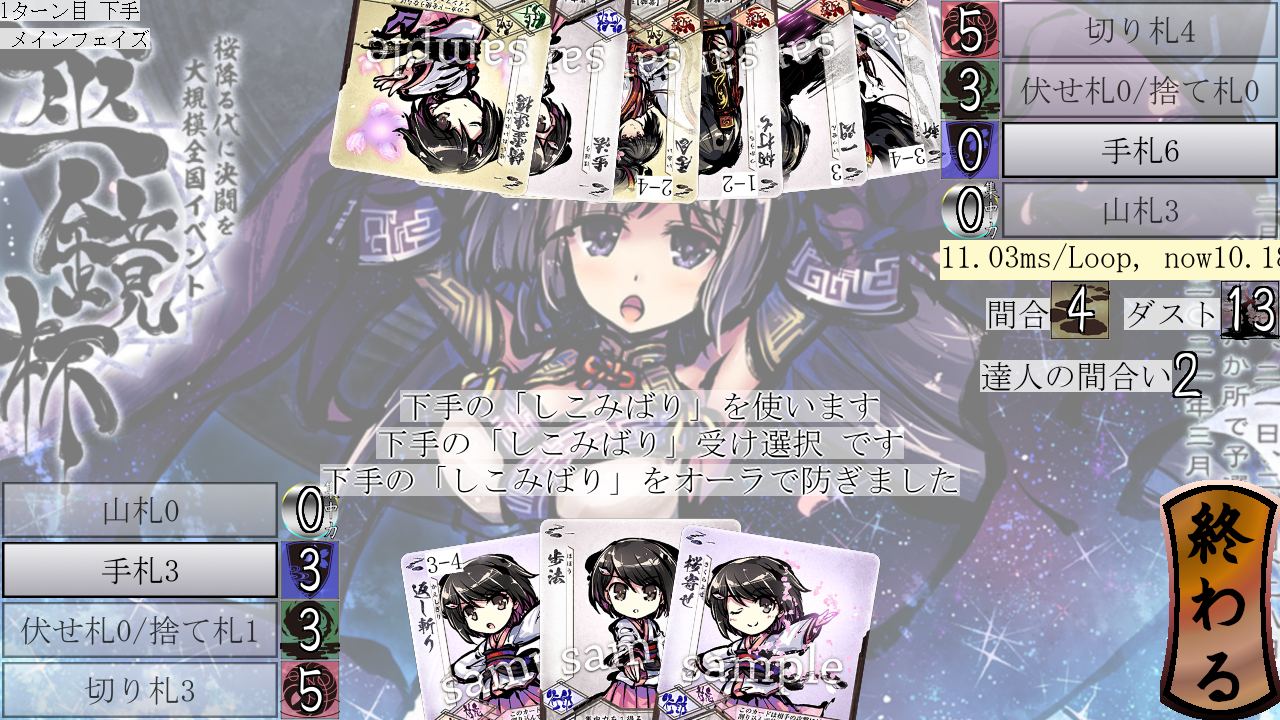
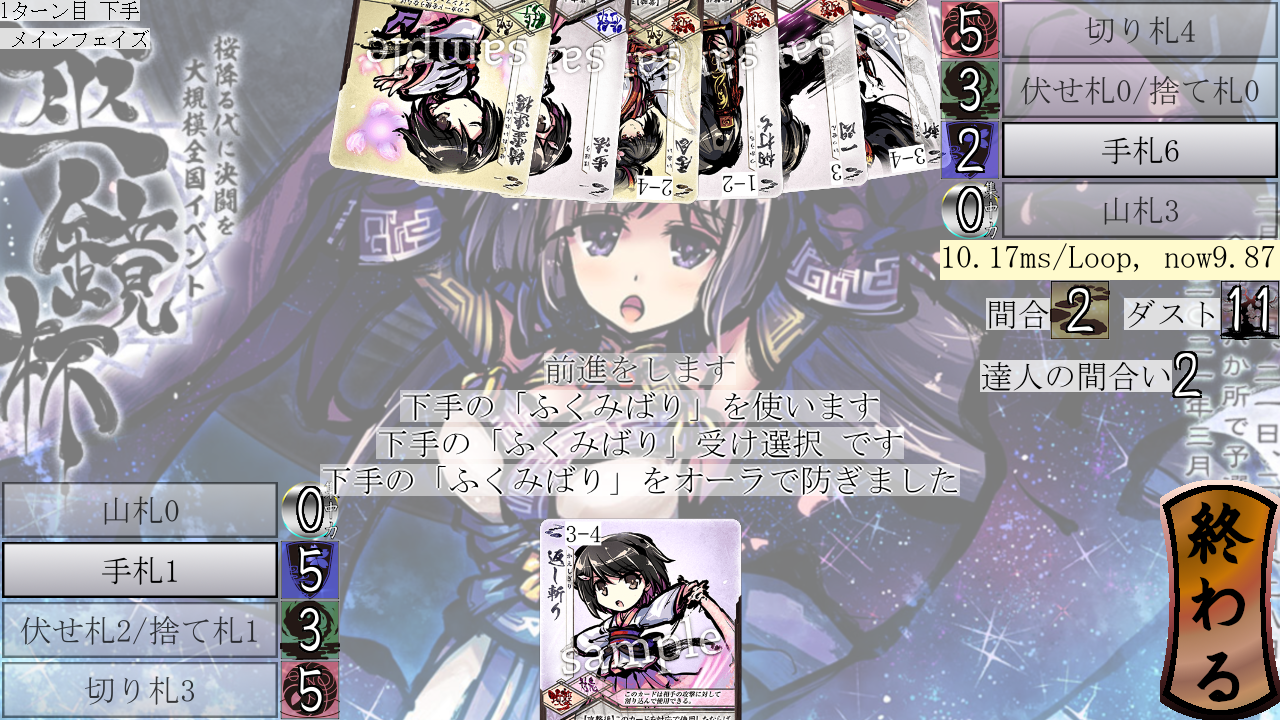
J707:変貌実装完了

diff --git a/mod/huda/huda.py b/mod/huda/huda.py
@@ -3,7 +3,7 @@ from pygame.surface import Surface
 from pygame.math import Vector2
 from typing import Callable
 
-from mod.const import nie, USAGE_UNUSED, USAGE_DEPLOYED, USAGE_USED, HUDA_SCALE
+from mod.const import enforce, nie, USAGE_UNUSED, USAGE_DEPLOYED, USAGE_USED, HUDA_SCALE
 from mod.youso import Youso
 from mod.card.card import Card, auto_di
 from mod.controller import controller
@@ -75,7 +75,13 @@ class Huda(Youso):
 
     @property
     def card(self) -> Card:
-        return self._card
+        if "henbou" in self._card.kwargs:
+            if self.delivery.m_params(self.hoyuusya).henbou:
+                return enforce(self._card.kwargs["horobi"], Card)
+            else:
+                return self._card
+        else:
+            return self._card
 
     @card.setter
     def card(self, card: Card) -> None:

diff --git a/kaiketus/m06o.py b/kaiketus/m06o.py
@@ -39,4 +39,4 @@ n_1_ura = Card(megami=MG_YUKIHI, img=img_card("o_n_1"), name="ふくみばり", 
     aura_damage_func=int_di(1), life_damage_func=int_di(2), maai_list=dima_di(0, 2))
 
 n_1 = Card(megami=MG_YUKIHI, img=img_card("o_n_1"), name="しこみばり", cond=auto_di, type=CT_KOUGEKI,
-    aura_damage_func=int_di(3), life_damage_func=int_di(1), maai_list=dima_di(4, 6), dual=True, henbou=n_1_ura)
+    aura_damage_func=int_di(3), life_damage_func=int_di(1), maai_list=dima_di(4, 6), henbou=True, horobi=n_1_ura)
